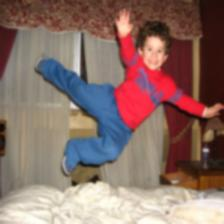
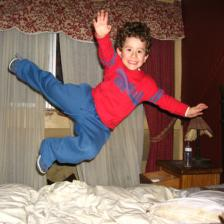
Weakened gaussian blur

diff --git a/data_augmentation.py b/data_augmentation.py
@@ -5,23 +5,27 @@ def _get_kernel_size(img_size):
     return round(img_size * 0.06) // 2 * 2 + 1
 
 
-def get_train_transformer(img_size):
+def get_train_transformer(img_size, to_tensor=True):
     # SimCLR (Chen et al., 2020)를 참고하여 구현했습니다.
     kernel_size = _get_kernel_size(img_size)
-    transformer = T.Compose(
-        [
-            T.RandomResizedCrop(size=img_size, scale=(0.8, 1), ratio=(3 / 4, 4 / 3), antialias=True),
-            T.RandomHorizontalFlip(p=0.5),
-            T.RandomApply(
-                [T.ColorJitter(brightness=0.4, contrast=0.4, saturation=0.4, hue=0.04)], p=0.7,
-            ),
-            T.RandomApply(
-                [T.GaussianBlur(kernel_size=(kernel_size, kernel_size), sigma=(0.1, 2))], p=0.4,
-            ),
-            T.ToTensor(),
-            T.Normalize(mean=[0.485, 0.456, 0.406], std=[0.229, 0.224, 0.225]),
-        ]
-    )
+    transforms = [
+        T.RandomResizedCrop(size=img_size, scale=(0.8, 1), ratio=(3 / 4, 4 / 3), antialias=True),
+        T.RandomHorizontalFlip(p=0.5),
+        T.RandomApply(
+            [T.ColorJitter(brightness=0.4, contrast=0.4, saturation=0.4, hue=0.04)], p=0.7,
+        ),
+        T.RandomApply(
+            [T.GaussianBlur(kernel_size=(kernel_size, kernel_size), sigma=(0.1, 2))], p=0.2,
+        ),
+    ]
+    if to_tensor:
+        transforms.extend(
+            [
+                T.ToTensor(),
+                T.Normalize(mean=[0.485, 0.456, 0.406], std=[0.229, 0.224, 0.225]),
+            ]
+        )
+    transformer = T.Compose(transforms)
     return transformer
 
 
@@ -39,7 +43,7 @@ if __name__ == "__main__":
     from PIL import Image
 
     image = Image.open("/Users/jongbeomkim/Documents/datasets/flickr8k_subset/Images/781118358_19087c9ec0.jpg")
-    transformer = get_train_transformer(img_size=224)
-    for idx in range(1, 11):
+    transformer = get_train_transformer(img_size=224, to_tensor=False)
+    for idx in range(1, 21):
         out = transformer(image)
         out.save(f"data_augmentation/{idx}.jpg")

diff --git a/train.py b/train.py
@@ -184,6 +184,7 @@ if __name__ == "__main__":
     if args.run_id is None:
         args.run_id = wandb.run.name
     wandb.config.update(CONFIG, allow_val_change=True)
+    wandb.config.update(args, allow_val_change=True)
     print(wandb.config)
 
     tokenizer = get_tokenizer()
